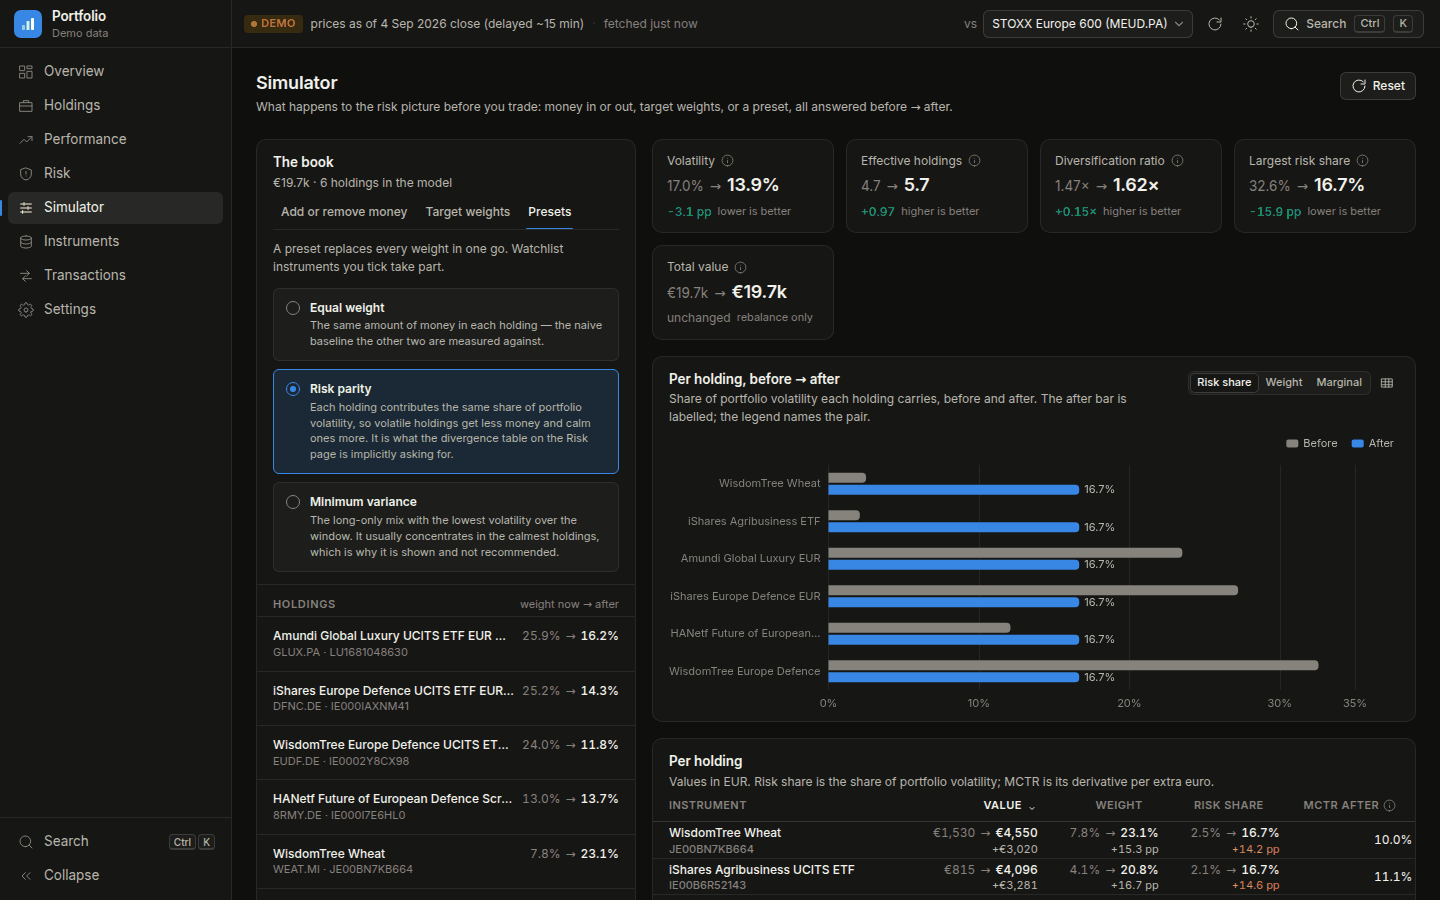
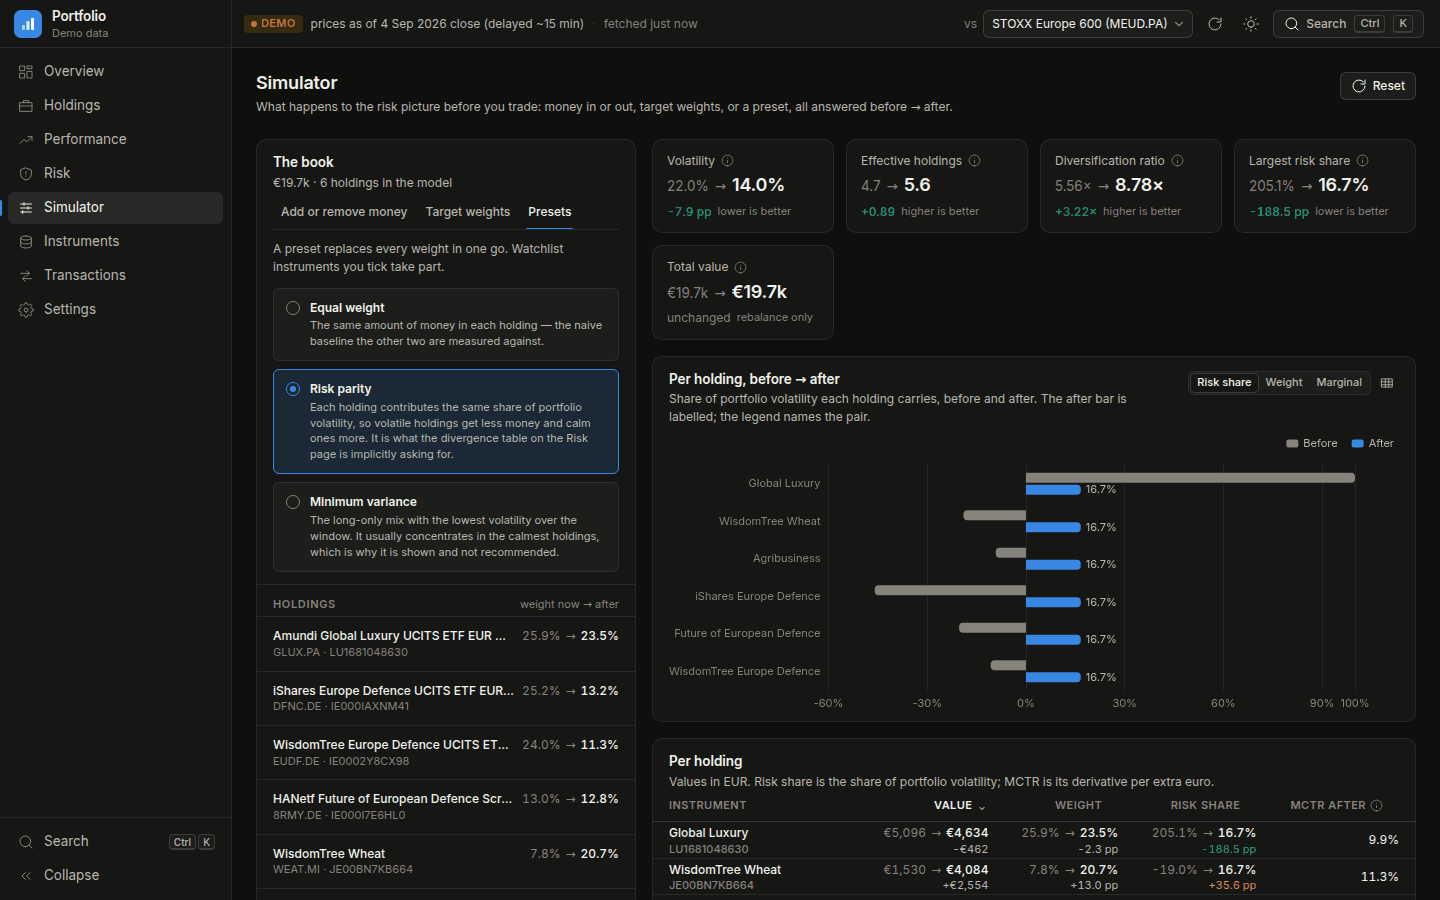
Widen the label limit to what the axis actually holds; regenerate screenshots
Reading the regenerated Risk page showed "Future of European..." still
truncated: the derived name was 26 characters against a 24-character limit
that had been set by guess rather than by measurement. The divergence chart's
label column holds about 180px, which is roughly 30 characters at 11px, so
the limit is now 28 and every label on that page is a whole name.

"Screened" joins the trailing qualifiers alongside "Sector": it describes a
screening methodology rather than identifying the fund, and where a screened
and unscreened version are both held the collision rule puts the issuer back
on anyway.

Screenshots regenerated. They now show the corrected divergence colours, the
derived names, and the two Europe Defence funds keeping their issuers because
they would otherwise be indistinguishable.

Claude-Session: https://claude.ai/code/session_014h26LXUSvqnznYE3pFskwy

diff --git a/portfolio/core/naming.py b/portfolio/core/naming.py
@@ -38,9 +38,11 @@ import re
 __all__ = ["shorten_name", "short_names", "derive_issuer",
            "DEFAULT_SHORT_NAME_LIMIT", "ISSUER_PREFIXES"]
 
-# Wide enough for "European Property Yield" (23) to survive intact, narrow
-# enough that a horizontal bar chart's labels do not eat the plot area.
-DEFAULT_SHORT_NAME_LIMIT = 24
+# Measured against the widest place these appear: the y-axis of the divergence
+# chart, whose label column holds about 180px, which is roughly 30 characters
+# at 11px. 28 keeps "Future of European Defence" (26) and "European Property
+# Yield" (23) whole while still leaving the plot the majority of the card.
+DEFAULT_SHORT_NAME_LIMIT = 28
 
 # Removed from the END only, repeatedly. A leading or middle occurrence is
 # left alone: "EURO STOXX Banks" and "Core MSCI EM IMI" both contain tokens
@@ -48,7 +50,7 @@ DEFAULT_SHORT_NAME_LIMIT = 24
 _TRAILING_NOISE = {
     # wrapper
     "UCITS", "ETF", "ETC", "ETP", "ETN", "FUND", "SICAV", "ICAV", "INDEX",
-    "SECTOR", "SWAP",
+    "SECTOR", "SWAP", "SCREENED",
     # share class and payout policy
     "ACC", "ACC.", "DIST", "DIS", "DIST.", "ACCUMULATING", "DISTRIBUTING",
     "CAP", "INC.", "CLASS", "SHARES", "SHARE",
@@ -199,8 +201,8 @@ def shorten_name(name: str, issuer: str = "",
 
     What is left over the limit is trimmed between words, never through one.
 
-    >>> shorten_name("Amundi Index Solutions Global Aggregate Green Bond")
-    'Global Aggregate Green…'
+    >>> shorten_name("Amundi Index Solutions Global Aggregate Green Bond Climate")
+    'Global Aggregate Green Bond…'
 
     An empty or whitespace name gives an empty result rather than raising: the
     caller has an ISIN to fall back on and a chart should not fail to draw.

diff --git a/portfolio/tests/test_naming.py b/portfolio/tests/test_naming.py
@@ -26,7 +26,7 @@ class TestShortening:
         assert shorten_name("iShares Core MSCI World UCITS ETF USD Acc") == "Core MSCI World"
 
     def test_never_cuts_a_word_in_half(self):
-        out = shorten_name("Amundi Index Solutions Global Aggregate Green Bond")
+        out = shorten_name("Amundi Index Solutions Global Aggregate Green Bond Climate")
         assert out.endswith("…")
         # The ellipsis replaces whole words, so what remains is still words.
         assert all(w.strip("…") for w in out.split())
@@ -150,6 +150,8 @@ class TestStoreRoundTrip:
 
 @pytest.mark.parametrize("name,expected", [
     ("iShares EURO STOXX Banks 30-15 UCITS ETF DE EUR Acc", "EURO STOXX Banks 30-15"),
+    ("HANetf Future of European Defence Screened UCITS ETF Acc",
+     "Future of European Defence"),
     ("Invesco Physical Gold ETC", "Physical Gold"),
     ("iShares Core MSCI EM IMI UCITS ETF USD Acc", "Core MSCI EM IMI"),
     ("iShares European Property Yield UCITS ETF EUR Acc", "European Property Yield"),
@@ -159,4 +161,4 @@ def test_the_real_portfolio(name, expected):
     """The seven instruments this was built against, all inside the limit."""
     out = shorten_name(name)
     assert out == expected
-    assert len(out) <= 24 and "…" not in out
+    assert len(out) <= 28 and "…" not in out
